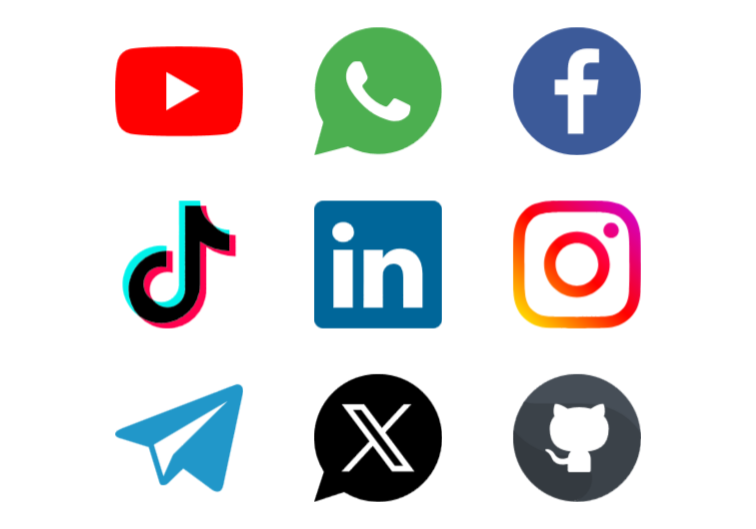
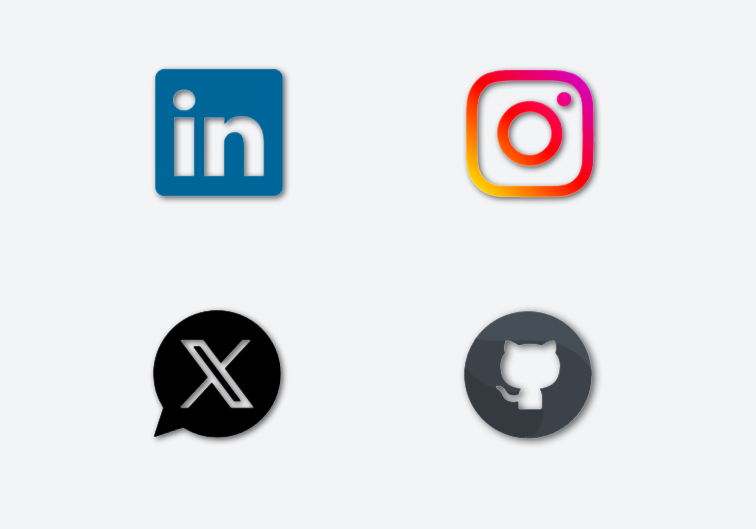
Modified social image, modified carousel for mapping links

diff --git a/src/styles/global.css b/src/styles/global.css
@@ -324,6 +324,58 @@ tbody tr:nth-child(even) {
   object-fit: contain; /* Or cover, depending on layout */
 }
 
+.carousel-wrapper {
+  position: relative;
+  max-width: 800px;   /* ← match carousel */
+  width: 100%;
+  margin: auto;
+  border-radius: 12px; /* optional */
+}
+
+/* clickable areas */
+.click-zone {
+  position: absolute;
+  display: block;
+  z-index: 10;
+}
+
+
+
+/* Show tooltip on hover */
+.click-zone:hover::after,
+.click-zone:hover::before {
+  opacity: 1;
+}
+
+.zone1 {
+  top: 0%;
+  left: 0%;
+  width: 50%;
+  height: 50%;
+}
+
+.zone2 {
+  top: 0;
+  left: 50%;
+  width: 50%;
+  height: 50%;
+}
+
+.zone3 {
+  top: 50%;
+  left: 0%;
+  width: 50%;
+  height: 50%;
+}
+
+.zone4 {
+  top: 50%;
+  left: 50%;
+  width: 50%;
+  height: 50%;
+}
+
+
 .standard-image {
   position: relative;
   width: auto;
